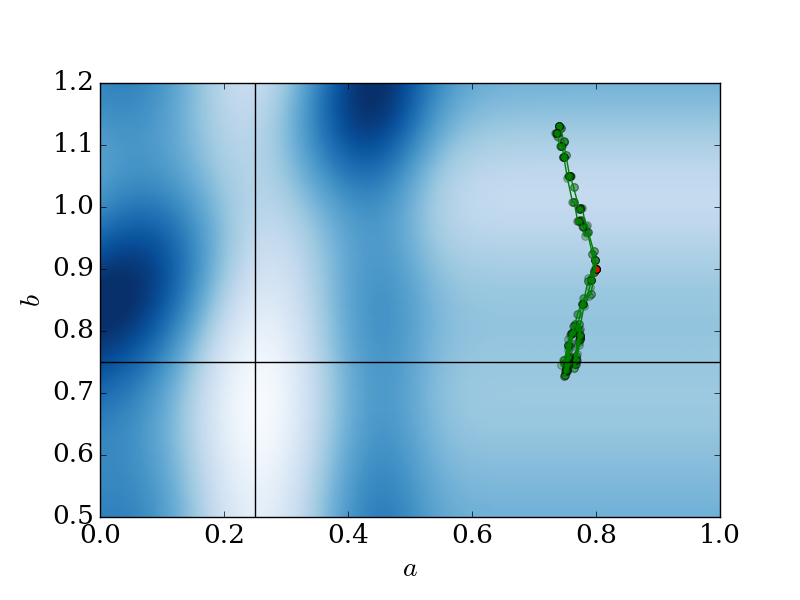
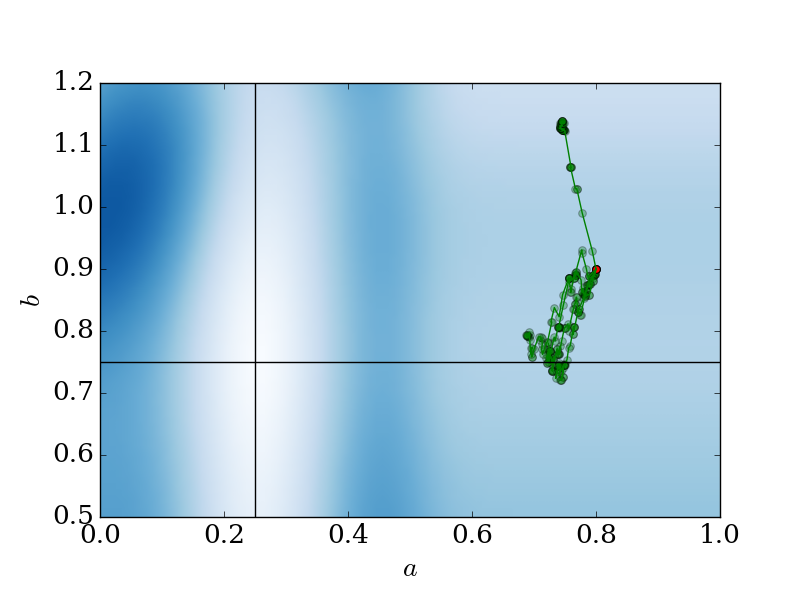
Made plot function nicer

diff --git a/optimize_visual.py b/optimize_visual.py
@@ -143,34 +143,34 @@ def err_surface(x_data, a_guess, b_guess):
             errors[l_a - i - 1, j] = err(x_data, a_guess[i], b_guess[j])
     return errors
 
-def plot_paths(method = 'sgd', runs = 5, run_length = 50):
+def plot_paths(methods = ['sgd', 'adam'], runs = 5, run_length = 50):
 
     x_data = np.arange(0, 1, 0.01)
     a_guess = np.arange(0.0, 1.0, 0.01)
     b_guess = np.arange(0.5, 1.5, 0.01)
     errors = err_surface(x_data, a_guess, b_guess)
     Example = Optimize(0.25, 0.75, [0.8, 0.9], x_data, stochastic = True)
-    a_s, b_s = Example.generate_paths(runs, run_length, method)
-
-    plt.figure()
-    plt.imshow(errors, cmap = 'Blues', interpolation='bilinear',
-               extent=[0.0,1.0,0.5,1.2], vmin=0, vmax=40)
-    for i in range(runs):
-        plt.plot(a_s[i,:], b_s[i,:], color = 'green')
-        plt.scatter(a_s[i,:], b_s[i,:], s= 30, alpha=0.3,
+    for method in methods:
+        a_s, b_s = Example.generate_paths(runs, run_length, method)
+        plt.figure()
+        plt.imshow(errors, cmap = 'Blues', interpolation='bilinear',
+               extent=[0.0,1.0,0.5,1.5], vmin=0, vmax=40)
+        for i in range(runs):
+            plt.plot(a_s[i,:], b_s[i,:], color = 'green')
+            plt.scatter(a_s[i,:], b_s[i,:], s= 30, alpha=0.3,
                     edgecolor='black', facecolor='g', linewidth=0.75)
-    plt.scatter(0.8, 0.9, s= 30, alpha=1.0, edgecolor='black',
+        plt.scatter(0.8, 0.9, s= 30, alpha=1.0, edgecolor='black',
                 facecolor='r', linewidth=0.75)
-    plt.plot((0.25, 0.25), (0.5, 1.2), 'k-')
-    plt.plot((0.0, 1.0), (0.75, 0.75), 'k-')
-    plt.ylabel('$b$', fontsize = 20)
-    plt.xlabel('$a$', fontsize = 20)
-    plt.ylim(0.5, 1.2)
-    plt.xlim(0.0, 1.0)
-    save_dir = 'images'
-    plt.savefig(os.path.join(save_dir, method + "_" + str(runs) +
+        plt.plot((0.25, 0.25), (0.5, 1.2), 'k-')
+        plt.plot((0.0, 1.0), (0.75, 0.75), 'k-')
+        plt.ylabel('$b$', fontsize = 20)
+        plt.xlabel('$a$', fontsize = 20)
+        plt.ylim(0.5, 1.2)
+        plt.xlim(0.0, 1.0)
+        save_dir = 'images'
+        plt.savefig(os.path.join(save_dir, method + "_" + str(runs) +
                              "runs_" + str(run_length) + "length.png"))
-    plt.show()
+        plt.show()
 
 def plot_stochastic_surface(x_data, samples):
     
@@ -180,8 +180,8 @@ def plot_stochastic_surface(x_data, samples):
 
     plt.figure()
     plt.imshow(true_err, cmap = 'Blues', interpolation='bilinear',
-               extent=[0.0,1.0,0.5,1.2], vmin=0, vmax=40)
-    plt.plot((0.25, 0.25), (0.5, 1.2), 'k-')
+               extent=[0.0,1.0,0.5,1.5], vmin=0, vmax=40)
+    plt.plot((0.25, 0.25), (0.5, 1.5), 'k-')
     plt.plot((0.0, 1.0), (0.75, 0.75), 'k-')
     plt.ylabel('$b$', fontsize = 20)
     plt.xlabel('$a$', fontsize = 20)
@@ -217,9 +217,8 @@ def plot_stochastic_surface(x_data, samples):
     plt.show()
 
 x_data = np.arange(0, 1, 0.01)
-
-test2 = plot_stochastic_surface(x_data, 2)
-test = plot_paths()
+figs = plot_stochastic_surface(x_data, 2)
+figs = plot_paths()
     
 #fig = plt.figure()
 #ax = fig.gca(projection='3d')

diff --git a/README.md b/README.md
@@ -13,12 +13,13 @@ which looks like:
 
 ![Five Adam runs](https://github.com/AsaCooperStickland/Optimizer_Visualisers/blob/master/images/func.png)
 
-If we choose 100 points between 0 and 1, and work out the error between the true function (with a = 0.25 and b = 0.75) and our guess for what a and b are.
+Say we have 100 points between 0 and 1, and work out the error between the true function (with a = 0.25 and b = 0.75) and our guess for what a and b are.
 When we map out the errors it looks like this:
 
 ![Five Adam runs](https://github.com/AsaCooperStickland/Optimizer_Visualisers/blob/master/images/true_error.png)
 
 There's obviously a minimum at a = 0.25, b = 0.75 where the error goes to zero, and it looks like a = 0.8, b = 1.0 is not a terrible fit. 
+
 
 ## Comparing Optimizers
 
@@ -34,13 +35,15 @@ This can be stopped by setting the learning rate to a lower value, which would o
 
 ![Five Adam runs](https://github.com/AsaCooperStickland/Optimizer_Visualisers/blob/master/images/adam_5.png)
 
-Adam also uses a moving average of the variance of the gradient, this is used to boost the learning rate of variables that are 'rarer'. But that 
-doesn't really apply here since we only have two variables for visualisation purposes. 
+Adam also uses a moving average of the variance of the gradient, this is used to boost the learning rate of variables that are 'rarer' by dividing the learning
+rate by the variance. But that doesn't really apply here since we only have two variables (for visualisation purposes). It is of course very useful in 
+deep learning tasks where we might have millions (or if we have access to fancy GPUs, billions!) of variables. 
 
 
 ### Dependencies
 * Numpy
 * Matplotlib
+
 ### References:
 * http://papers.nips.cc/paper/4522-practical-bayesian-optimization-of-machine-learning-algorithms.pdf
 * http://arxiv.org/pdf/1012.2599v1.pdf
